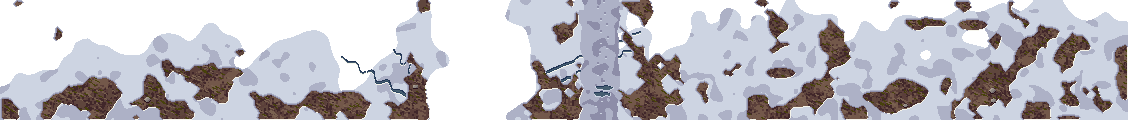
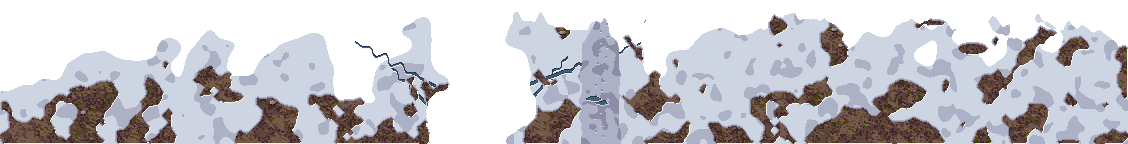
Frostline A2 round 3 (B1): the thaw band fades out inside its own picture
The band reaches a row higher and its wash, lane, patches and rivulets end on a lobed,
wandering edge 12 to 30 texels down its picture, nothing above it, so no row of its box
shows as a line on the snow (row 0 is now clear). The Col Path's slush lane tapers into
the trod over its top 24 texels with its sides wandering; it is 37 to 41 px wide over the
door cells. frost_woodland_thaw's biomes add "woodland" (P2). Regenerated with the usual
sequence; the zone moves only the band's placement (y 984 -> 960).

Claude-Session: https://claude.ai/code/session_01UudrmtYkicLNgZeuSjvjrK

diff --git a/scripts/art/kit/sets/frost/outlet.py b/scripts/art/kit/sets/frost/outlet.py
@@ -812,7 +812,7 @@ def inflow_at():
 
 
 
-THAW_ROWS = 5                     # the band's reach north of the seam (its top edge wanders a cell or two in it)
+THAW_ROWS = 6                     # the band's reach north of the seam (its top edge wanders a cell or two in it)
 
 
 
@@ -923,12 +923,18 @@ def thaw_band(seed=441):
     gw = np.kron(g[-(H // CELL):], np.ones((CELL, CELL), object))[-H:]
     land = ~wm & ~ndi.binary_dilation(wm, iterations=2)
     # the band's top edge wanders a cell or two; t runs 0 there to 1 at the seam
-    top = 0.25 * H + 22.0 * _noise((1, W), 40.0, seed + 1)[0] + 8.0 * _noise((1, W), 12.0, seed + 2)[0]
+    # round 3 (B1): the band fades out inside its own picture: a lobed, wandering edge 12 to 30 texels
+    # down, nothing above it, so no row of the box shows as a line on the snow
+    edge = np.clip(21.0 + 5.0 * _noise((1, W), 7.0, seed + 11)[0] + 3.0 * _noise((1, W), 2.5, seed + 12)[0], 12, 30)
+    top = np.maximum(0.3 * H + 22.0 * _noise((1, W), 40.0, seed + 1)[0] + 8.0 * _noise((1, W), 12.0, seed + 2)[0], edge + 4)
     t = np.clip((Y - top[None, :]) / (H - 4 - top[None, :]), -1.0, 1.0)
     # the door's lane: the Col Path's middle 36 texels, straight to the door cells
     trod_cols = np.nonzero((gw[-1] == 'b'))[0]
     lc = (trod_cols.min() + trod_cols.max() + 1) / 2.0 if len(trod_cols) else W / 2.0
-    lane = (np.abs(X - lc) <= 18 + np.round(1.3 * _noise((H, W), 3.0, seed + 3))) & (t > -0.2) & land
+    # the lane tapers into the trod above it over its top 24 texels, its sides wandering 2 to 3 texels
+    taper = np.clip((Y - edge[None, :]) / 24.0, 0.0, 1.0)
+    half = np.maximum(6.0 + 12.5 * taper + np.round(2.0 * _noise((H, W), 4.0, seed + 3)), np.where(taper >= 1.0, 18.0, 0.0))
+    lane = (np.abs(X - lc) <= half) & (Y >= edge[None, :]) & land
     # where the patches open: large and merging near the seam, a few small ones north
     nb = _noise((H, W), 9.0, seed + 4)
     ns = _noise((H, W), 3.5, seed + 5)
@@ -1008,6 +1014,7 @@ def thaw_band(seed=441):
                 path = _meander(rng, ys0, xs0, ty, tx, int(abs(tx - xs0) + abs(ty - ys0)) + 4, float(rng.uniform(2, 4)))
                 _rivulet(out, path, land & ~lane, wm, bare, int(rng.integers(2, 4)))
     out[~land & (out >= 0) & wm] = -1
+    out[Y < edge[None, :]] = -1
     p = V.Pic(W, H, W // 2, 0)
     p.a[:] = out
     p.world = (0, int(y0))

diff --git a/scripts/art/kit/sets/frost/__init__.py b/scripts/art/kit/sets/frost/__init__.py
@@ -177,6 +177,8 @@ def _piece(pid, name, variants, size, cells, purpose, role, **kw):
     zsort = kw.pop('z_sort', None)
     pc = B._piece(pid, name, variants, size, cells, purpose, role, shadow=None, **kw)
     pc['biomes'] = list(BIOMES)
+    if pid == 'frost_woodland_thaw':                 # the thaw's woodland half lies in the woodland (round 3, P2)
+        pc['biomes'] = list(BIOMES) + ['woodland']
     pc['approval']['standard'] = STANDARD
     for v in pc['variants']:
         v['png'] = v['png'].replace(B.RES, RES)
